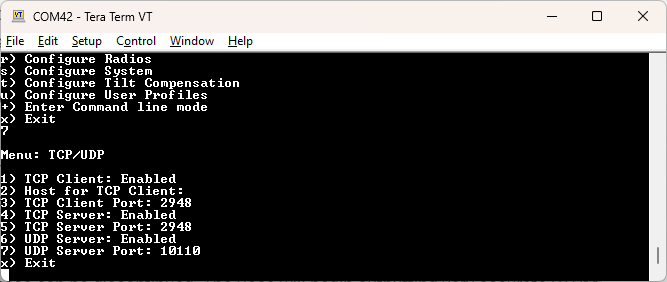
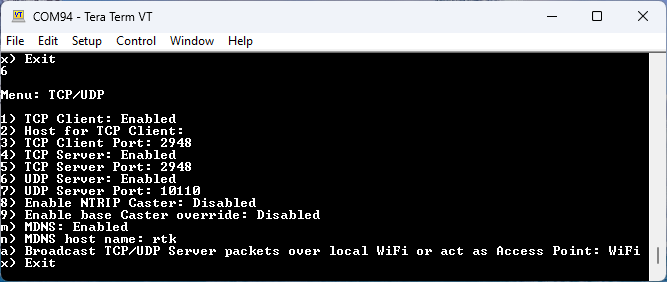
Update TCP/UDP docs

diff --git a/docs/menu_tcp_udp.md b/docs/menu_tcp_udp.md
@@ -20,36 +20,45 @@ Compatibility Icons
 
 NMEA data is generally consumed by a GIS application or Data Collector. These messages can be transmitted over a variety of transport methods. This section focuses on the delivery of NMEA messages via TCP and UDP.
 
-<figure markdown>
-![TCP/UDP Menu showing various TCP/UDP Client and Server options](./img/Terminal/SparkFun RTK Everywhere - TCP-UDP Menu.png)
-<figcaption markdown>
-TCP/UDP Menu showing various Client and Server options
-</figcaption>
-</figure>
+<p align="center">
+  <img src="img/Terminal/SparkFun RTK Everywhere - TCP-UDP Menu.png" alt="TCP/UDP Menu showing various Client and Server options">
+</p>
+
+*<p align="center">TCP/UDP Menu showing various Client and Server options</p>*
+
+<p align="center">
+  <img src="img/WiFi Config/SparkFun RTK Config - TCP Port.png" alt="TCP/UDP settings using Web Config">
+</p>
+
+*<p align="center">TCP/UDP settings using Web Config</p>*
 
 ## TCP Client and Server
 
-The RTK device supports connection over TCP. The TCP Client sits on top of the network layer (WiFi or Ethernet) and sends position data to one or more computers or cell phones for display. Some Data Collector software (such as [Vespucci](gis_software.md#vespucci)) requires that the SparkFun RTK device connect as a TCP Client. Other software (such as [QGIS](gis_software.md#qgis)) requires that the SparkFun RTK device acts as a TCP Server. Both are supported.
-
-!!! note
-	Currently for WiFi: TCP is only supported while connected to local WiFi, not AP mode. This means the device will need to be connected to a WiFi network, such as a mobile hotspot, before TCP connections can occur.
-
-<figure markdown>
-![TCP Port Entry](./img/WiFi%20Config/SparkFun%20RTK%20Config%20-%20TCP%20Port.png)
-<figcaption markdown>
-</figcaption>
-</figure>
+The RTK device supports connection over TCP. The TCP Client sits on top of the network layer (WiFi in general, and Ethernet/Cellular on the EVK) and sends position data to one or more computers or cell phones for display. Some Data Collector software (such as [Vespucci](gis_software.md#vespucci)) requires that the SparkFun RTK device connect as a TCP Client. Other software (such as [QGIS](gis_software.md#qgis)) requires that the SparkFun RTK device acts as a TCP Server. Both are supported.
 
 If either Client or Server is enabled, a port can be designated. By default, the port is 2947 (registered as [*GPS Daemon request/response*](https://tcp-udp-ports.com/port-2948.htm)) but any port 0 to 65535 is supported.
 
-<figure markdown>
-![Ethernet TCP Client connection](./img/Terminal/TCP_Client.gif)
-<figcaption markdown>
-</figcaption>
-</figure>
 
-The above animation was generated using [TCP_Server.py](https://github.com/sparkfun/SparkFun_RTK_Everywhere_Firmware/blob/main/Firmware/Tools/TCP_Server.py).
+<p align="center">
+  <img src="img/Terminal/TCP_Client.gif" alt="Ethernet TCP Client connection">
+</p>
+
+*<p align="center">Ethernet TCP Client connection</p>*
+
+The above animation was generated using [TCP_Server.py](https://github.com/sparkfun/SparkFun_RTK_Everywhere_Firmware/blob/main/Firmware/Tools/TCP_Server.py) and demonstrates connecting to an RTK device over TCP from a desktop.
 
 ## UDP Server
 
-NMEA messages can also be broadcast via UDP on Ethernet and WiFi, rather than TCP. If enabled, the UDP Server will begin broadcasting NMEA data over the specific port (default 10110).
+NMEA messages can also be broadcast via UDP rather than TCP. If enabled, the UDP Server will begin broadcasting NMEA data over the specific port (default 10110).
+
+## NTRIP Caster
+
+If enabled, incoming TCP connections will be answered as if the device is an NTRIP Caster and return a mount table with only one mount point. In this mode NTRIP Clients can connect directly to the RTK device without the need for a 3rd party NTRIP Caster such as RTK2Go or Emlid. This is most often used when a base RTK device is in AP or WiFi Station mode, and a rover is connected to a cell phone that is on the same WiFi network. A GIS app can then use its built in NTRIP Client to connect to the base's NTRIP Caster.
+
+## MDNS
+
+Multicast DNS allows other devices on the same network to discover this device using 'rtk.local' as its address. When MDNS is enabled, and the RTK device is acting in WiFi AP mode for configuration, typing 'rtk.local' into a browser will connect that browser to the RTK device without having to know or type in the full IP address.
+
+## Broadcast TCP/UDP over WiFi or AP
+
+TCP Server and UDP Server can connect over a local WiFi network, or by becoming an Access Point (hosting its own WiFi network) that client devices can connect to. Use option **a** to select between the type of WiFi to use for TCP/UDP Server broadcasting.
